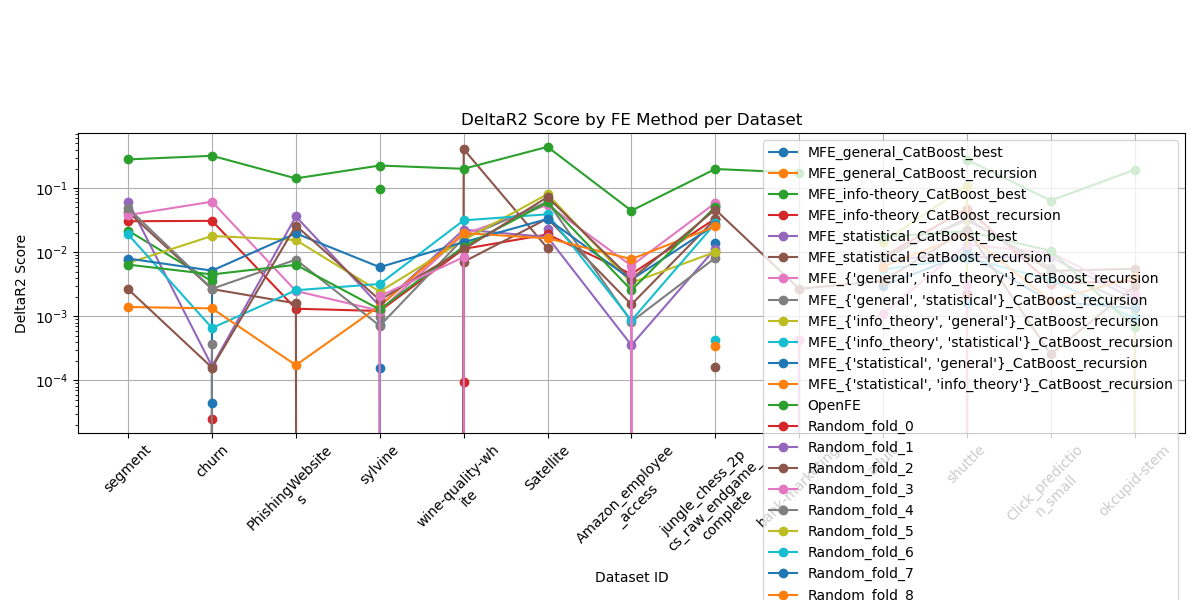
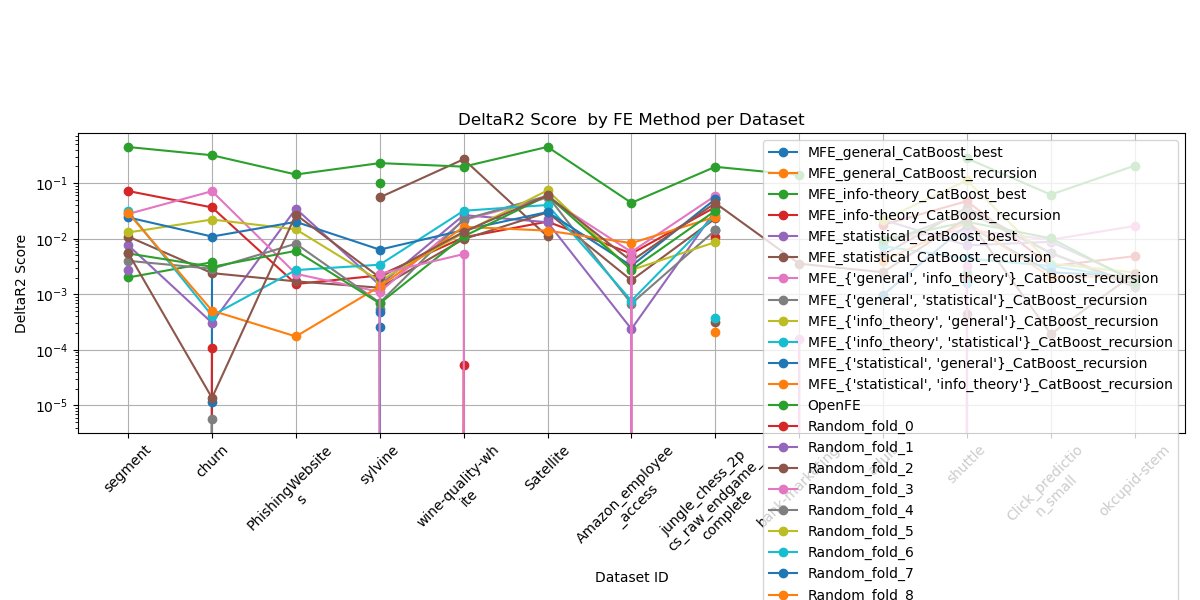
Add incremental validation analysis

diff --git a/src/Result_Analysis/statistical_analysis/statistical_analysis.py b/src/Result_Analysis/statistical_analysis/statistical_analysis.py
@@ -1,11 +1,9 @@
 import glob
-import os
 
 import matplotlib.pyplot as plt
 import numpy as np
 import openml
 import pandas as pd
-from numpy.linalg import LinAlgError
 
 from src.Result_Analysis.test_analysis.test_analysis import insert_line_breaks
 from src.utils.get_data import split_data, get_openml_dataset_split
@@ -19,59 +17,73 @@ def plot_delta_r2_graph(dataset_list_wrapped, df_pivot, name):
     plt.xticks(rotation=45)  # or 90
     plt.yscale("log")
     plt.ylabel("DeltaR2 Score")
-    plt.title("DeltaR2 Score by FE Method per Dataset")
+    plt.title("DeltaR2 Score " + name + " by FE Method per Dataset")
     plt.legend()
     plt.grid(True)
     plt.tight_layout()
-    plt.savefig("Delta_R2_Score_by_FE_Method"+name+".png")
+    if name == "":
+        plt.savefig("Delta_R2_Score_by_FE_Method.png")
+    else:
+        plt.savefig("Delta_R2_Score_by_FE_Method_" + name.replace(" ", "_") + ".png")
     plt.show()
 
 
+"""
 def semipartial_corr_formula(X_base, X_new, Y):
-    """
-    Compute semipartial correlation for each feature in X_new with Y,
-    controlling for X_base.
-    """
+    # Compute semipartial correlation for each feature in X_new with Y, controlling for X_base.
     X_base = np.asarray(X_base)
     Y = np.asarray(Y).ravel()
     results = {}
-
     for col in X_new.columns:
         x_new = X_new[col].to_numpy().ravel()
-
         # Correlation between Y and new feature
         r_yx1 = np.corrcoef(Y, x_new)[0, 1]
-
         # Correlation between Y and base features (multiple)
         r_yx2 = np.mean([np.corrcoef(Y, X_base[:, i])[0, 1] for i in range(X_base.shape[1])])
-
         # Correlation between new feature and base features (average)
         r_x1x2 = np.mean([np.corrcoef(x_new, X_base[:, i])[0, 1] for i in range(X_base.shape[1])])
-
         # Semipartial correlation
         numerator = r_yx1 - r_yx2 * r_x1x2
         denominator = np.sqrt(1 - r_x1x2 ** 2)
-
         r_semipartial = numerator / denominator if denominator != 0 else np.nan
         results[col] = r_semipartial
-
     return results
+"""
+
+
+def identify_suppressors(X_base, X_train_fe, Y, corr_matrix_pd, delta_r2, threshold_low=0.1, threshold_high=0.3):
+    suppressors = []
+
+    for col in X_train_fe.columns:
+        r_yx = corr_matrix_pd.loc[col, "target"]  # correlation with Y
+        r_xx = corr_matrix_pd.loc[col, X_base.columns].abs().max()  # strongest correlation with any X_base
+
+        if abs(r_yx) < threshold_low and r_xx > threshold_high:
+            suppressors.append({
+                'feature': col,
+                'r_with_Y': r_yx,
+                'max_r_with_X_base': r_xx,
+                'delta_r2': delta_r2
+            })
+
+    return pd.DataFrame(suppressors)
 
 
 def calculate_incremental_validity(Y, X_base, X_train_fe):
-
-    all_vars = pd.concat([X_train_fe, Y], axis=1)
+    Y_df = pd.DataFrame(Y, columns=["target"])
+    all_vars = pd.concat([X_train_fe, Y_df], axis=1)
     try:
         corr_matrix = all_vars.corr().values
     except ValueError:
         Y = pd.Series(pd.factorize(Y)[0], index=X_base.index)
-        all_vars = pd.concat([X_train_fe, Y], axis=1)
+        Y_df = pd.DataFrame(Y, columns=["target"])
+        all_vars = pd.concat([X_train_fe, Y_df], axis=1)
         try:
             corr_matrix = all_vars.corr().values
         except ValueError:
             X_base = X_base.apply(lambda x: pd.factorize(x)[0])
             X_train_fe = X_train_fe.apply(lambda x: pd.factorize(x)[0])
-            all_vars = pd.concat([X_train_fe, Y], axis=1)
+            all_vars = pd.concat([X_train_fe, Y_df], axis=1)
             corr_matrix = all_vars.corr().values
     corr_matrix = np.nan_to_num(corr_matrix)
     corr_matrix_pd = pd.DataFrame(corr_matrix, columns=all_vars.columns, index=all_vars.columns)
@@ -88,7 +100,6 @@ def calculate_incremental_validity(Y, X_base, X_train_fe):
     r2_full = r_yx_full @ np.linalg.pinv(R_xx_full) @ r_yx_full.T
 
     delta_r2 = r2_full - r2_base
-    print(delta_r2)
     return corr_matrix_pd, r2_base, r2_full, delta_r2
 
 
@@ -117,8 +128,11 @@ def statistical_analysis():
     path = "../../Apply_and_Test/test_data/"
     data_files = glob.glob(path + "FE_*.parquet")
     data_files.sort()
-    columns = ["Dataset", "Method", "DeltaR2"]
+    columns = ["Dataset", "Method", "DeltaR2", "Count_Suppressor_Candidates", "Number_of_Features", "DeltaR2_Normalized"]
     delta_r2_df = pd.DataFrame(columns=columns)
+    delta_r2_normalized_df = pd.DataFrame(columns=columns)
+    delta_r2_non_suppressor_df = pd.DataFrame(columns=columns)
+    delta_r2_non_suppressor_normalized_df = pd.DataFrame(columns=columns)
     try:
         delta_r2_df = pd.read_parquet("delta_r2.parquet")
     except FileNotFoundError:
@@ -130,20 +144,54 @@ def statistical_analysis():
             X_train_fe, y_train_fe, X_test_fe, y_test_fe = split_data(data, "target")
             X_train, y_train, X_test, y_test = get_openml_dataset_split(dataset)
             features = X_train_fe.drop(X_train.columns, axis=1)
-            X_train = X_train_fe.drop(features.columns, axis=1)
-            y_train = y_train_fe
-            X_test = X_test_fe.drop(features.columns, axis=1)
-            y_test = y_test_fe
-            corr_matrix_pd, r2_base, r2_full, delta_r2 = calculate_incremental_validity(y_train_fe, X_train, X_train_fe)
+            number_of_features = features.shape[1]
+            if number_of_features > 0:
+                X_train = X_train_fe.drop(features.columns, axis=1)
+                corr_matrix_pd, r2_base, r2_full, delta_r2 = calculate_incremental_validity(y_train_fe, X_train, X_train_fe)
+                suppressor_df = identify_suppressors(X_train, X_train_fe, y_train_fe, corr_matrix_pd, delta_r2)
+                delta_r2_normalized = delta_r2 / number_of_features
+                count_suppressor_candidates = len(suppressor_df)
+                try:
+                    X_train_fe_non_suppressors = X_train_fe.drop(columns=suppressor_df['feature'])
+                except KeyError:
+                    X_train_fe_non_suppressors = X_train_fe
+                corr_matrix_pd_non_suppressor, r2_base_non_suppressor, r2_full_non_suppressor, delta_r2_non_suppressor = calculate_incremental_validity(y_train_fe, X_train, X_train_fe_non_suppressors)
+                delta_r2_non_suppressor_normalized = delta_r2_non_suppressor / number_of_features
+            else:
+                delta_r2 = 0
+                delta_r2_normalized = 0
+                delta_r2_non_suppressor = 0
+                delta_r2_non_suppressor_normalized = 0
+                count_suppressor_candidates = 0
+            print(number_of_features)
+            print(delta_r2)
+            print(delta_r2_normalized)
+            print(delta_r2_non_suppressor)
+            print(delta_r2_non_suppressor_normalized)
+
+            # Suppressor & normalized
             new_row = pd.DataFrame(columns=columns)
-            new_row.loc[len(new_row)] = [dataset, method, delta_r2,]
+            new_row.loc[len(new_row)] = [dataset, method, delta_r2, count_suppressor_candidates, number_of_features, delta_r2_normalized]
             delta_r2_df = pd.concat([delta_r2_df, new_row])
 
-        delta_r2_df.dropna(inplace=True)
-        delta_r2_df.to_parquet("delta_r2.parquet")
+            # No suppressor & normalized
+            new_row_non_suppressor = pd.DataFrame(columns=columns)
+            new_row_non_suppressor.loc[len(new_row_non_suppressor)] = [dataset, method, delta_r2_non_suppressor, count_suppressor_candidates, number_of_features, delta_r2_non_suppressor_normalized]
+            delta_r2_non_suppressor_df = pd.concat([delta_r2_non_suppressor_df, new_row_non_suppressor])
+
+            delta_r2_df.dropna(inplace=True)
+            delta_r2_df.to_parquet("delta_r2.parquet")
+            delta_r2_non_suppressor_df.dropna(inplace=True)
+            delta_r2_non_suppressor_df.to_parquet("delta_r2_non_suppressor.parquet")
 
     df_pivot = delta_r2_df.pivot(index="Dataset", columns="Method", values="DeltaR2")
-    df_pivot = df_pivot.sort_index()  # Sort by dataset ID
+    df_pivot_normalized = delta_r2_df.pivot(index="Dataset", columns="Method", values="DeltaR2_Normalized")
+    df_pivot_non_suppressor = delta_r2_non_suppressor_df.pivot(index="Dataset", columns="Method", values="Count_Suppressor_Candidates")
+
+    df_pivot = df_pivot.sort_index()
+    df_pivot_normalized = df_pivot_normalized.sort_index()
+    df_pivot_non_suppressor = df_pivot_non_suppressor.sort_index()
+
     datasets = df_pivot.index.astype(str)
     dataset_list = []
     for dataset in datasets.tolist():
@@ -159,10 +207,13 @@ def statistical_analysis():
     dataset_list_wrapped = [insert_line_breaks(name, max_len=15) for name in dataset_list]
 
     plot_delta_r2_graph(dataset_list_wrapped, df_pivot, "")
+    plot_delta_r2_graph(dataset_list_wrapped, df_pivot_normalized, "Normalized")
 
     df_pivot_pandas = df_pivot[["pandas_CatBoost_best", "pandas_CatBoost_recursion", "OpenFE"]]
-    plot_delta_r2_graph(dataset_list_wrapped, df_pivot_pandas, "_pandas_OpenFE_")
+    df_pivot_normalized_pandas = df_pivot_normalized[["pandas_CatBoost_best", "pandas_CatBoost_recursion", "OpenFE"]]
 
+    plot_delta_r2_graph(dataset_list_wrapped, df_pivot_pandas, "Pandas and OpenFE")
+    plot_delta_r2_graph(dataset_list_wrapped, df_pivot_normalized_pandas, "Normalized Pandas and OpenFE")
 
 
 
